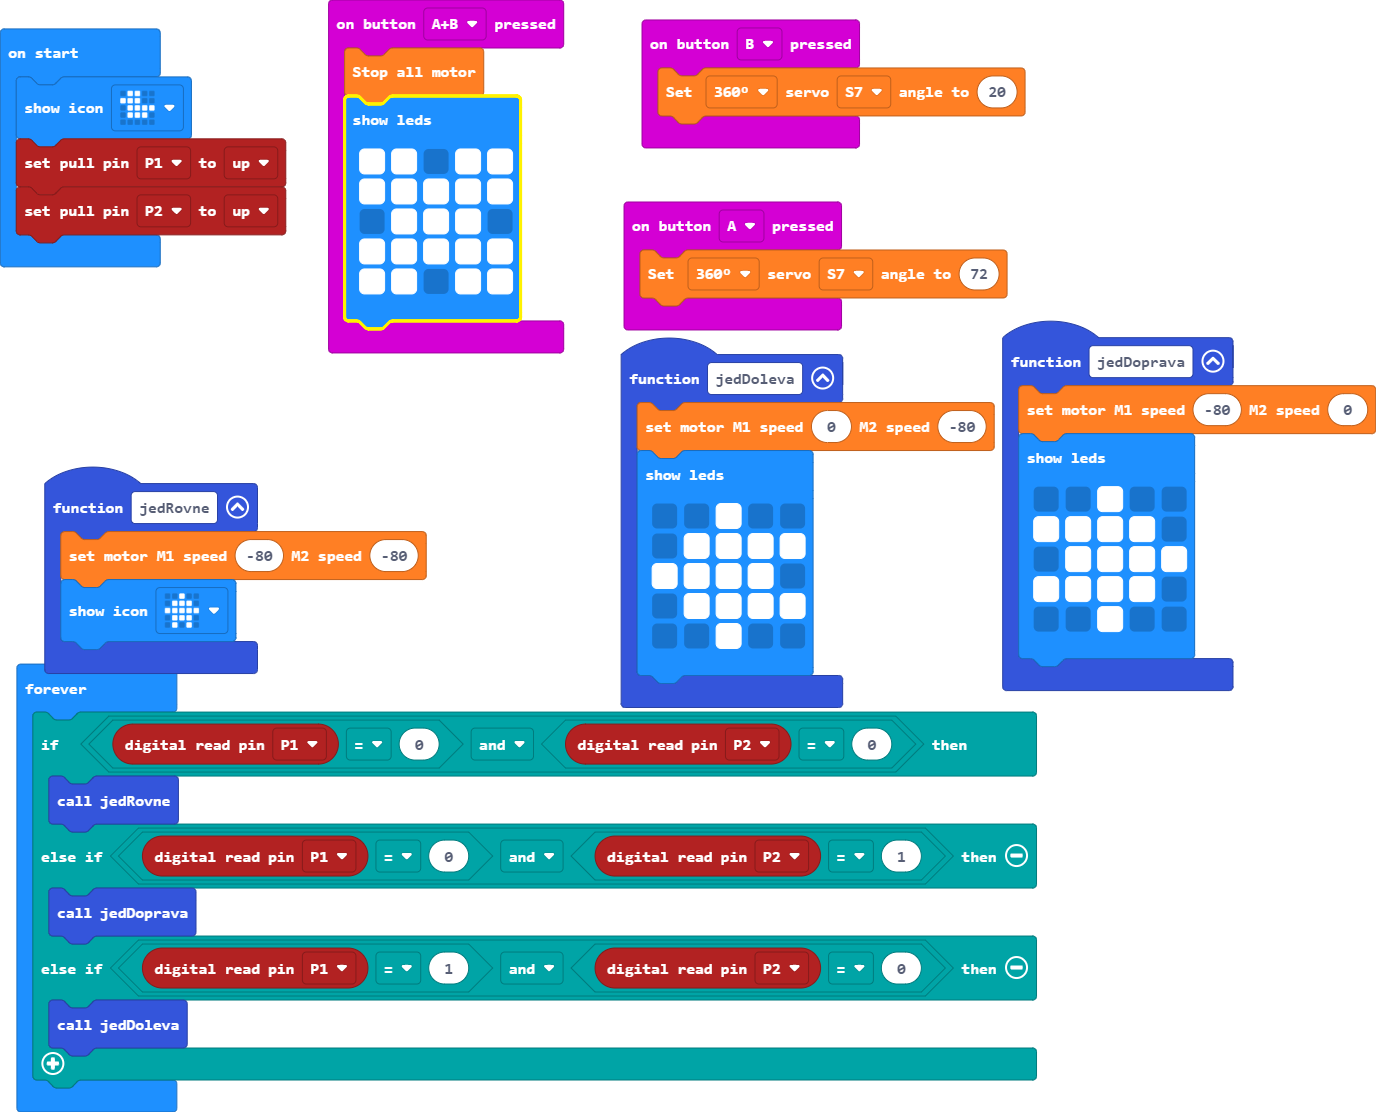
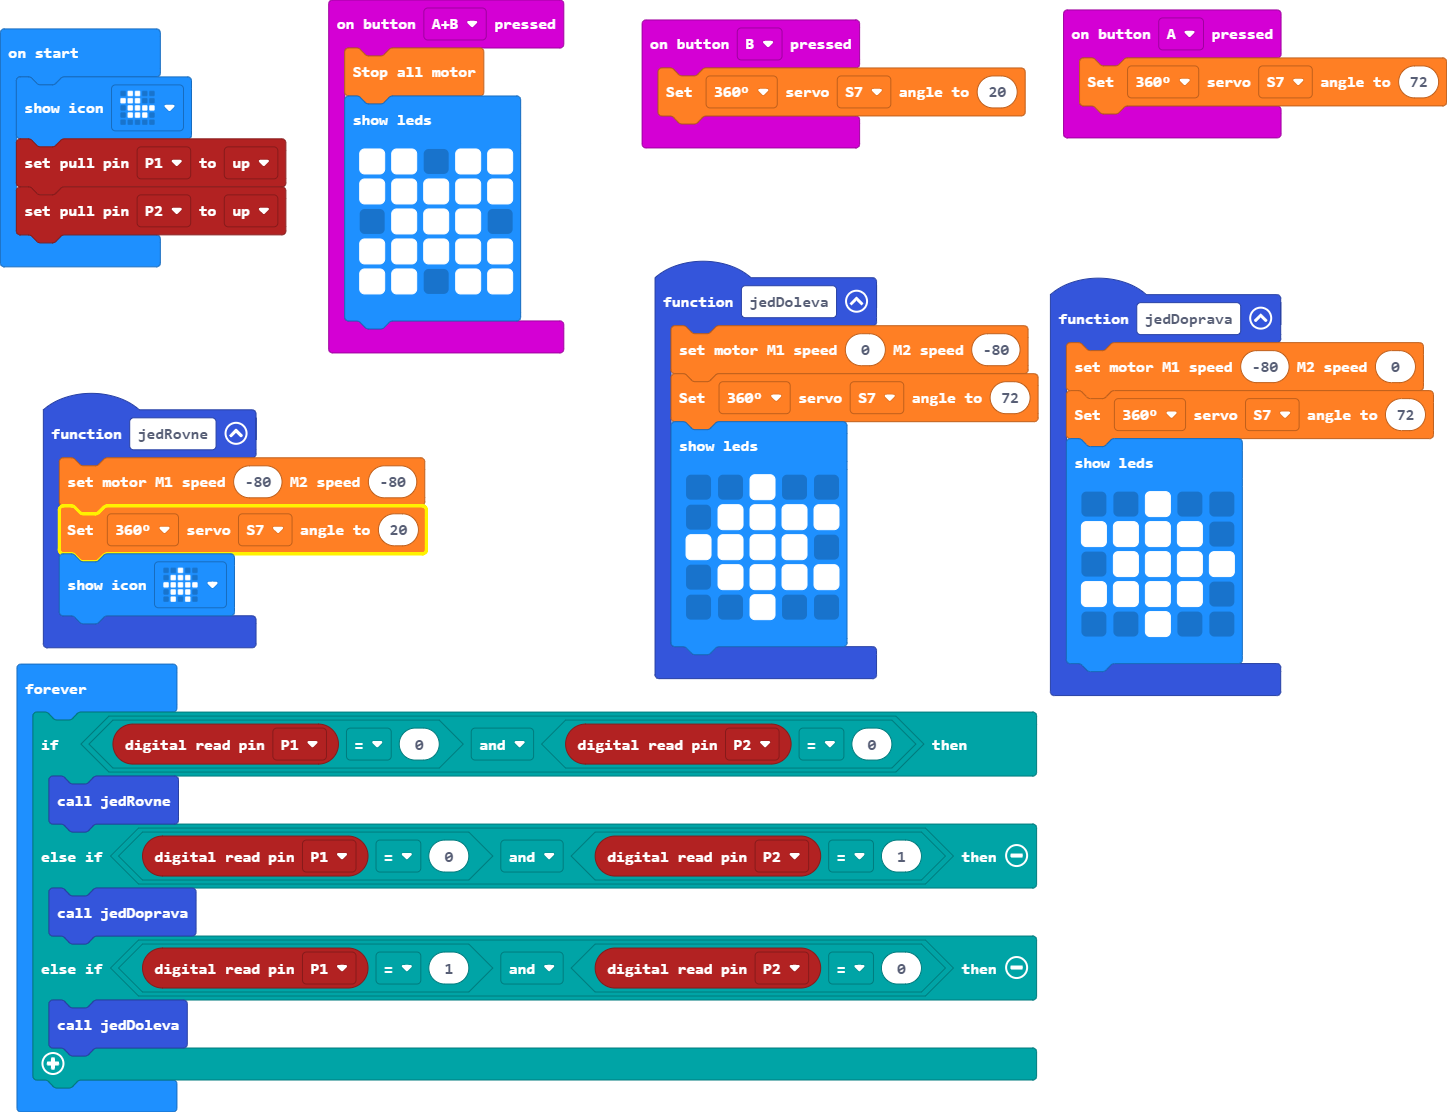
Zvedani plosiny

diff --git a/main.ts b/main.ts
@@ -1,5 +1,6 @@
 function jedRovne () {
     wuKong.setAllMotor(-80, -80)
+    wuKong.setServoAngle(wuKong.ServoTypeList._360, wuKong.ServoList.S7, 20)
     basic.showIcon(IconNames.House)
 }
 input.onButtonPressed(Button.A, function () {
@@ -7,6 +8,7 @@ input.onButtonPressed(Button.A, function () {
 })
 function jedDoleva () {
     wuKong.setAllMotor(0, -80)
+    wuKong.setServoAngle(wuKong.ServoTypeList._360, wuKong.ServoList.S7, 72)
     basic.showLeds(`
         . . # . .
         . # # # #
@@ -30,6 +32,7 @@ input.onButtonPressed(Button.B, function () {
 })
 function jedDoprava () {
     wuKong.setAllMotor(-80, 0)
+    wuKong.setServoAngle(wuKong.ServoTypeList._360, wuKong.ServoList.S7, 72)
     basic.showLeds(`
         . . # . .
         # # # # .
